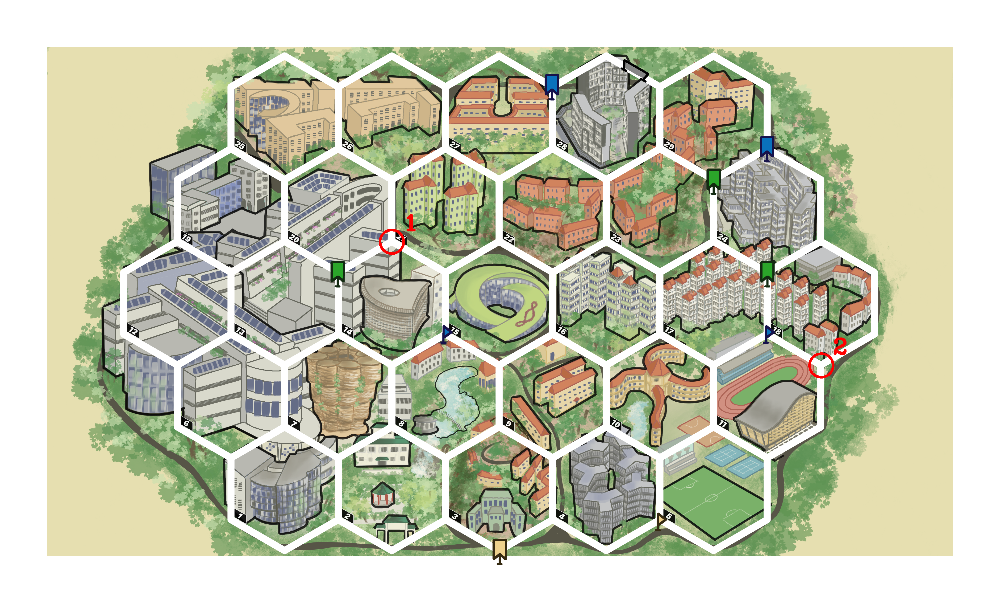
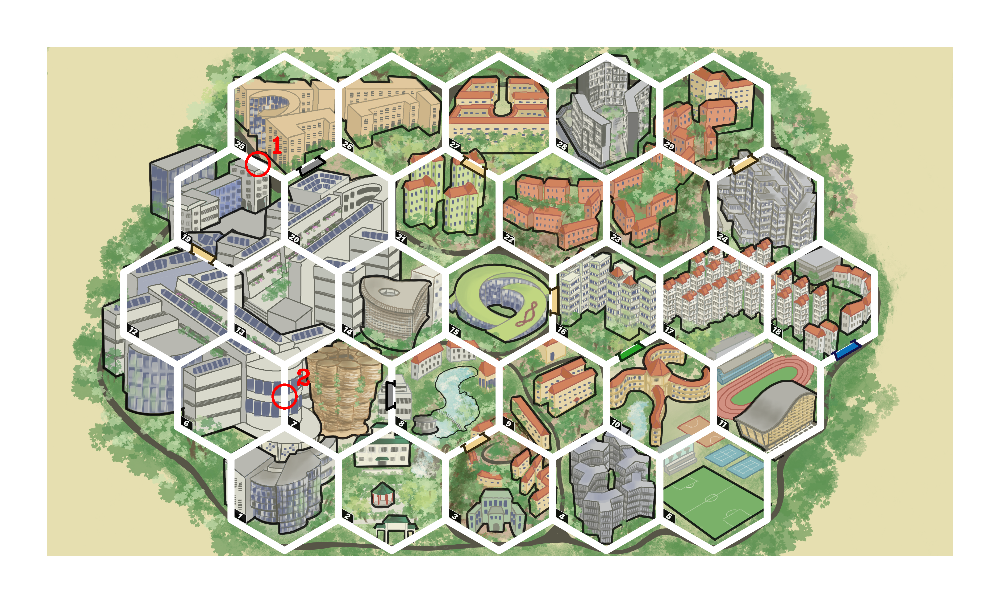
accuracy fixes

diff --git a/test.py b/test.py
@@ -26,23 +26,28 @@ def test_map():
         c = c_gen()
         while not is_valid(c):
             c = c_gen()
+
         q, r, s, a = c
 
-        if i > 9:
-            choices.append(c)
-            continue
-
-        bname = choice([B_ROAD, B_HOUSE, B_VILLAGE])
+        #bname = choice([B_ROAD, B_HOUSE, B_VILLAGE])
+        bname = B_ROAD
         bowner = choice([OG_AVARI, OG_KELGRAS, OG_LEVIATHAN, OG_THERON])
 
         if bname == B_ROAD:
             a += MAP_E_OFFSET
+
+        c = q, r, s, a
+        if i > 9:
+            print(i-9, c, bname)
+            choices.append(c)
+            continue
+    
         b = Building()
         b.owner = bowner
 
         b.set_name(bname)
 
-        map.place_building((q, r, s, a), b)
+        map.place_building(c, b)
 
     for k, v in map.map.items():
         print(f'{k}: {v.owner} {v.name}')

diff --git a/objects/Map.py b/objects/Map.py
@@ -69,7 +69,7 @@ class Map():
                         FOLDER_ASSETS, MAP_ASSET_FILENAMES[building.owner][building.name]), cv2.IMREAD_UNCHANGED)
                 
             if building.name == B_ROAD:
-                image = ndimage.rotate(image, c[3] + 90)
+                image = ndimage.rotate(image, 90 - c[3])
 
             yadj, xadj = (np.array(image.shape) // 2)[:2]
             x, y = c_to_xy(c)

diff --git a/calculation/imaging.py b/calculation/imaging.py
@@ -8,7 +8,7 @@ from constants.map.positions import CENTER_HEX, HEX_DIAMETER, HEX_RADIUS_EDGE, H
 def get_unit_vector(angle):
     angle = (angle + 90) % 360
     angle *= math.pi/180
-    return np.array([math.cos(angle), -math.sin(angle)])
+    return np.array([-math.cos(angle), -math.sin(angle)])
 
 def c_to_xy(c):
     q, _, s, a = c
